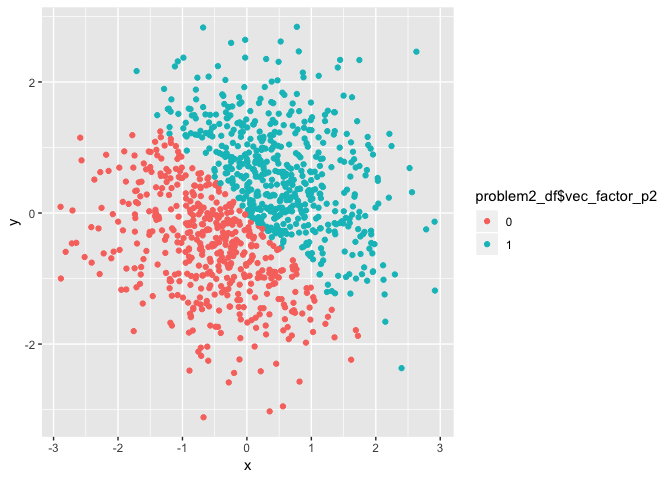
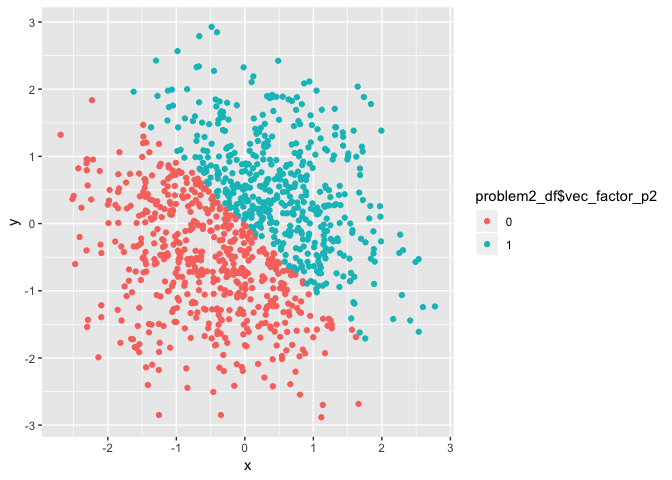
Commit with final edits

diff --git a/p8105_hw1_gwk2111.md b/p8105_hw1_gwk2111.md
@@ -8,7 +8,7 @@ Problem 1
 
 ### Creating the Problem 1 Data Frame
 
-Creating a data frame for question 1:
+First, I will create a data frame for question 1:
 
 ``` r
 problem1_df = tibble(
@@ -26,7 +26,7 @@ Next, I will take the mean of each of my variables:
 mean(problem1_df$random_sample_p1)
 ```
 
-    ## [1] 2.873234
+    ## [1] 2.710438
 
 ``` r
 mean(problem1_df$vec_logical_p1)
@@ -52,21 +52,23 @@ mean(problem1_df$vec_factor_p1)
 
     ## [1] NA
 
-We are only able to calculate the mean of random\_sample and the logic vector. Random\_sample is a numeric variable, so we would expect to be able to calculate the mean. The logic vector is a dichotomous variable that r recognizes as either "1" when "TRUE" and "0" when "FALSE", which is why the mean can also be calculated for this variable. The character and factor vectors have character values, and so a mean cannot be calculated because there is no numerical value.
+We are only able to calculate the mean of random\_sample and the logic vector. Random\_sample is a numeric variable, so we would expect to be able to calculate the mean. The logic vector is a dichotomous variable that *r* recognizes as either 1 when "TRUE" and 0 when "FALSE", which is why the mean can also be calculated for this variable. The character and factor vectors have character values, and so a mean cannot be calculated because there is no numerical value.
 
-### Converting Variables with Codechunks
+### Converting Variables
 
-Below, I use the `as.numeric` function to the logical, character, and vector variables:
+Below, I apply the `as.numeric` function to the logical,factor, and character variables:
 
 ``` r
 as.numeric(problem1_df$vec_logical_p1)
+
 as.numeric(problem1_df$vec_factor_p1)
+
 as.numeric(problem1_df$vec_char_p1)
 ```
 
     ## Warning: NAs introduced by coercion
 
-When I use the `as.numeric` function, the logical variable is converted to 0 or 1 (1 for TRUE and 0 for FALSE). When `as.numeric` is applied to the character vector, we see a warning message that explains NA was introduced by coercion. When `as.numeric` is applied to the factor variable, it is assigned a new number for each new character. They are numbered 1 to 10.
+When I apply the `as.numeric` function, the logical vector is converted to 0 or 1 (1 for TRUE and 0 for FALSE). When `as.numeric` is applied to the character vector, we see a warning message that explains NA was introduced by coercion. When `as.numeric` is applied to the factor vector, it is assigned a new number for each new character. They are numbered 1 to 10.
 
 Next I will convert my character variable to a factor variable and then a numeric variable:
 
@@ -95,7 +97,7 @@ Problem 2
 
 ### Create the Problem 2 Data Frame
 
-Creating a data frame for question 2:
+First, I will create a data frame for question 2:
 
 ``` r
 problem2_df = tibble(
@@ -107,7 +109,7 @@ problem2_df = tibble(
 )
 ```
 
-The dataset has 1000 rows and 5 columns. The mean of x is 0.0151715 and the median of x is 0.024873. The proportion of cases for which the logical vector is true is 0.526.
+The dataset has 1000 rows and 5 columns. The mean of x is -0.0552284 and the median of x is -0.0269803. The proportion of cases for which the logical vector is true is 0.466.
 
 ### Plotting Problem 2
 
